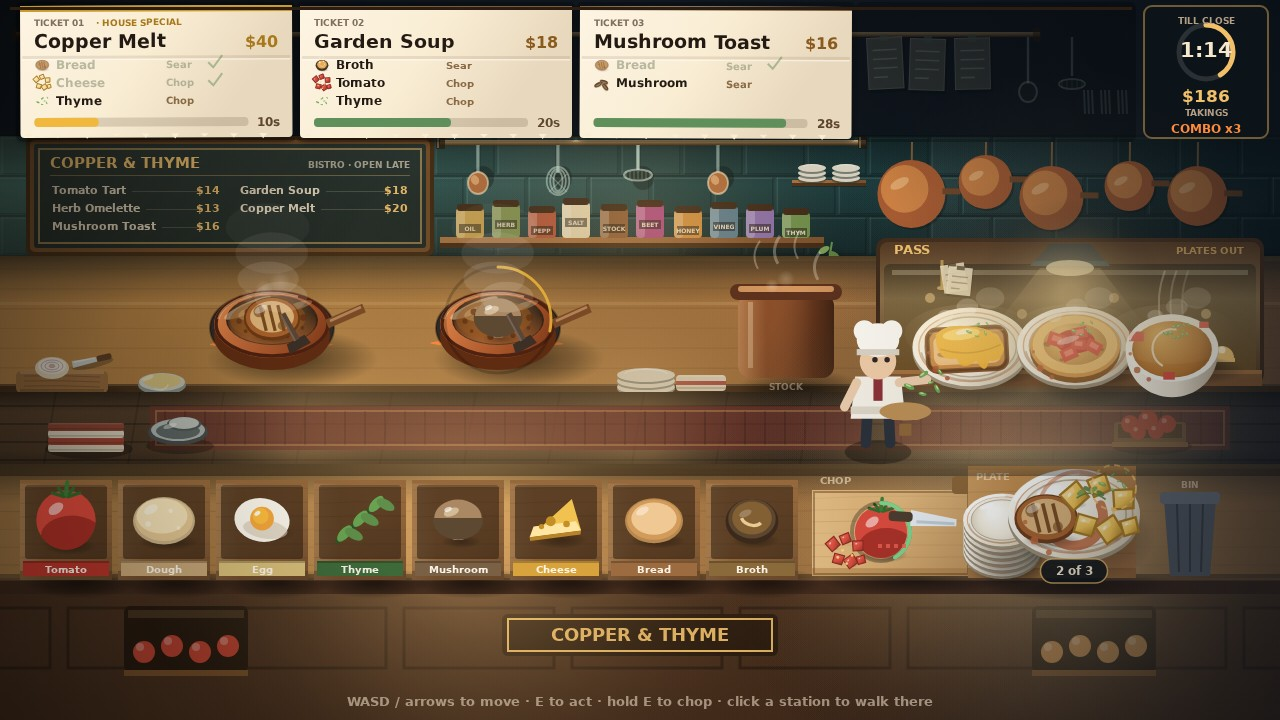
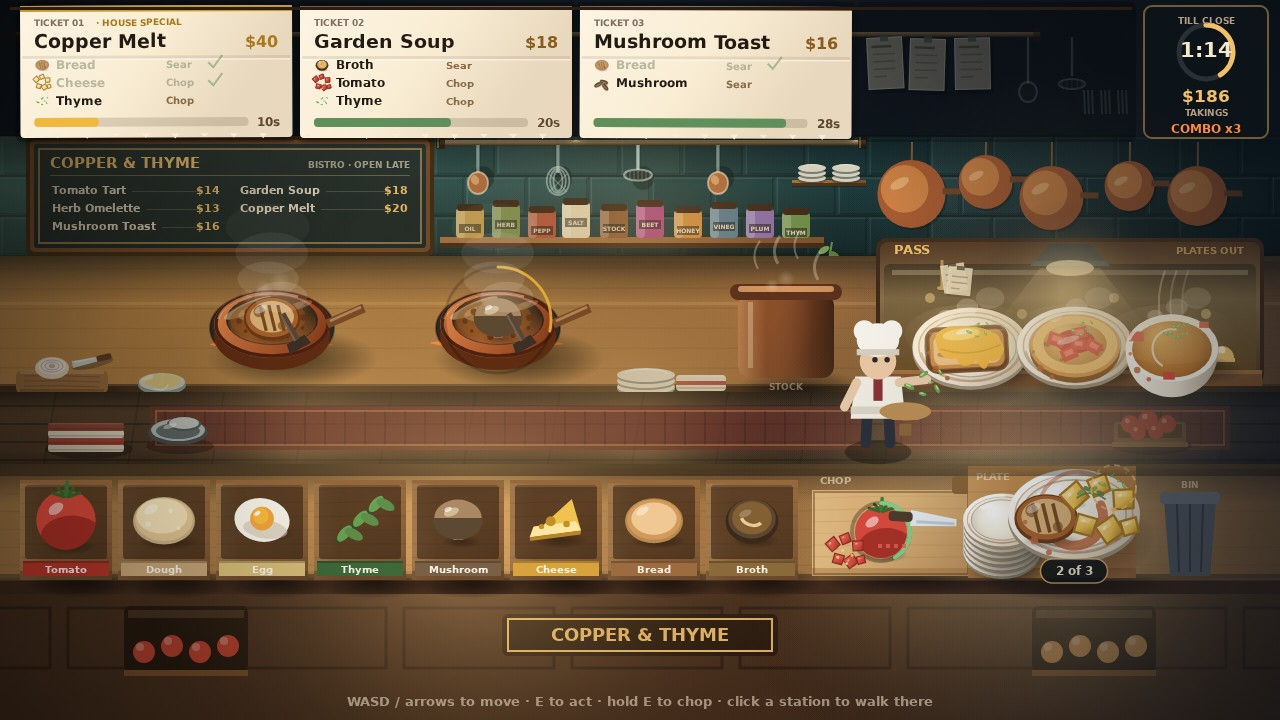
The dockets on the wall read as paper: cream slips with a dish line and a price, clipped over the rail

Changed region(s): [[0.6562, 0.0306, 0.7812, 0.1222]]

diff --git a/game/src/room.js b/game/src/room.js
@@ -261,16 +261,19 @@ function wallDressing(ctx) {
     ctx.save();
     ctx.translate(dx, rodY + 6);
     ctx.rotate(tilt);
-    ctx.fillStyle = 'rgba(10,18,18,0.34)';
-    ctx.fillRect(2, 3, 36, 52);
-    ctx.fillStyle = 'rgba(226,216,192,0.2)';
+    ctx.fillStyle = 'rgba(8,16,16,0.45)';
+    ctx.fillRect(3, 4, 36, 52);
+    ctx.fillStyle = 'rgba(236,226,200,0.44)';
     ctx.fillRect(0, 0, 36, 52);
-    ctx.strokeStyle = 'rgba(196,222,212,0.14)';
+    ctx.strokeStyle = 'rgba(198,224,214,0.28)';
     ctx.lineWidth = 1;
     ctx.strokeRect(0.5, 0.5, 35, 51);
-    ctx.fillStyle = 'rgba(206,232,222,0.2)';
-    for (let i = 0; i < 4; i += 1) ctx.fillRect(6, 12 + i * 9, i === 3 ? 14 : 24, 1.6);
-    ctx.fillStyle = 'rgba(60,74,66,0.7)';
+    // the ink on the slip: a dish line, two components, a price
+    ctx.fillStyle = 'rgba(40,48,42,0.62)';
+    ctx.fillRect(5, 8, 20, 2.4);
+    ctx.fillStyle = 'rgba(52,60,52,0.42)';
+    for (let i = 0; i < 4; i += 1) ctx.fillRect(6, 16 + i * 7.5, i === 3 ? 13 : 22, 1.5);
+    ctx.fillStyle = 'rgba(60,74,66,0.85)';
     ctx.fillRect(14, -3, 8, 7);
     ctx.restore();
   }
